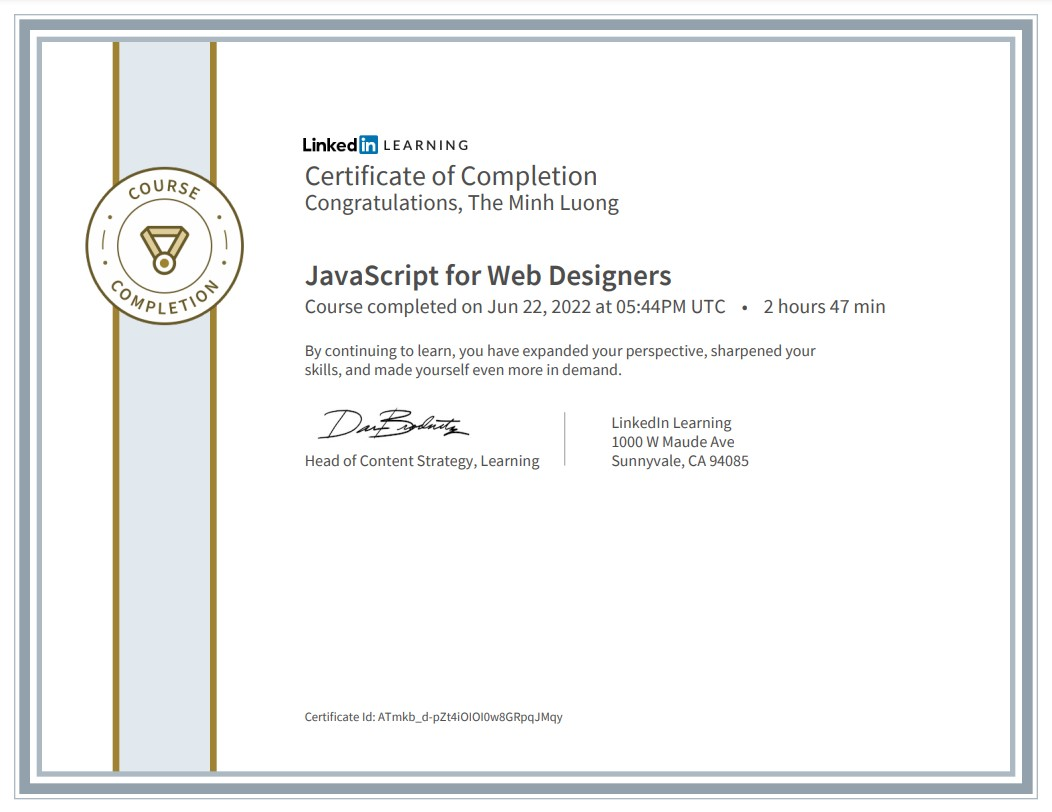
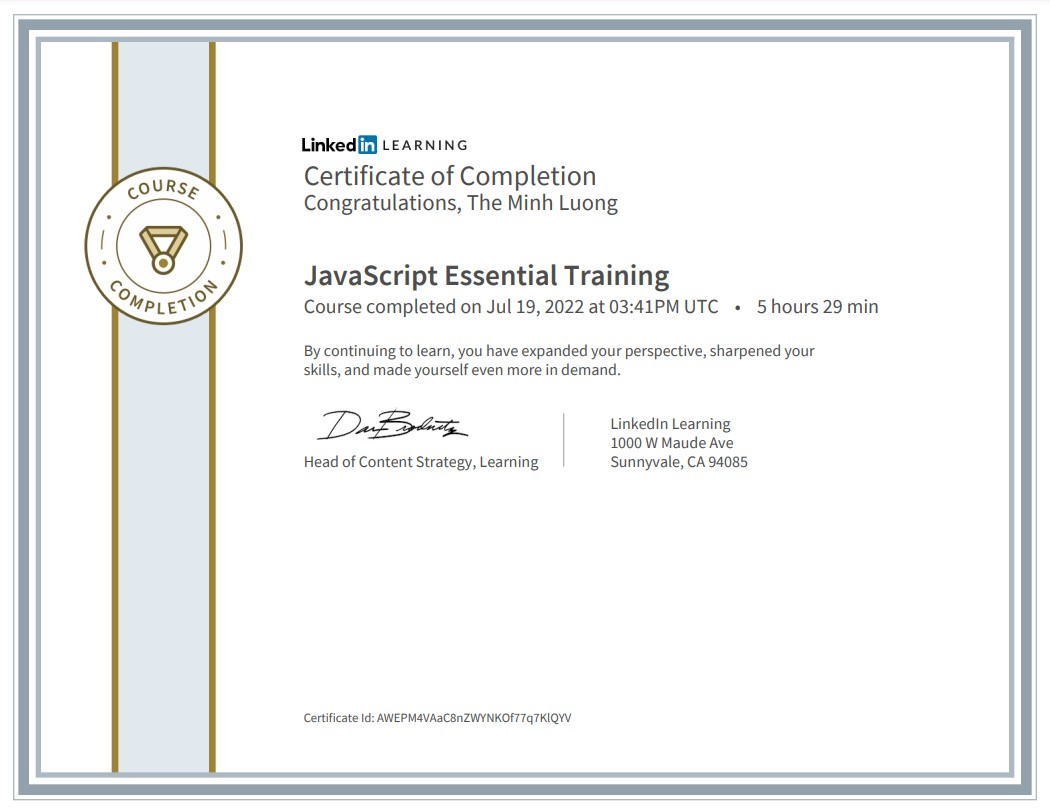
Adding JavaScript certificate

diff --git a/js/blueprints.js b/js/blueprints.js
@@ -131,6 +131,10 @@ class MyEducation extends HTMLElement {
           <!-- Course list -->
           <ul class="linkedin__learning__list">
             <li class="course_item">
+              <a href="https://www.linkedin.com/learning/javascript-essential-training/" class="linkedin_course" target="_blank">JavaScript Training, 2022</a>
+              <img class="certificate" src="img/home/certificates/javascript_certificate.jpg" alt="js certificate">
+            </li>
+            <li class="course_item">
               <a href="https://www.linkedin.com/learning/wordpress-5-essential-training/" class="linkedin_course" target="_blank">WordPress Training, 2022</a>
               <img class="certificate" src="img/home/certificates/wp_certificate.jpg" alt="wordpress certificate">
             </li>
